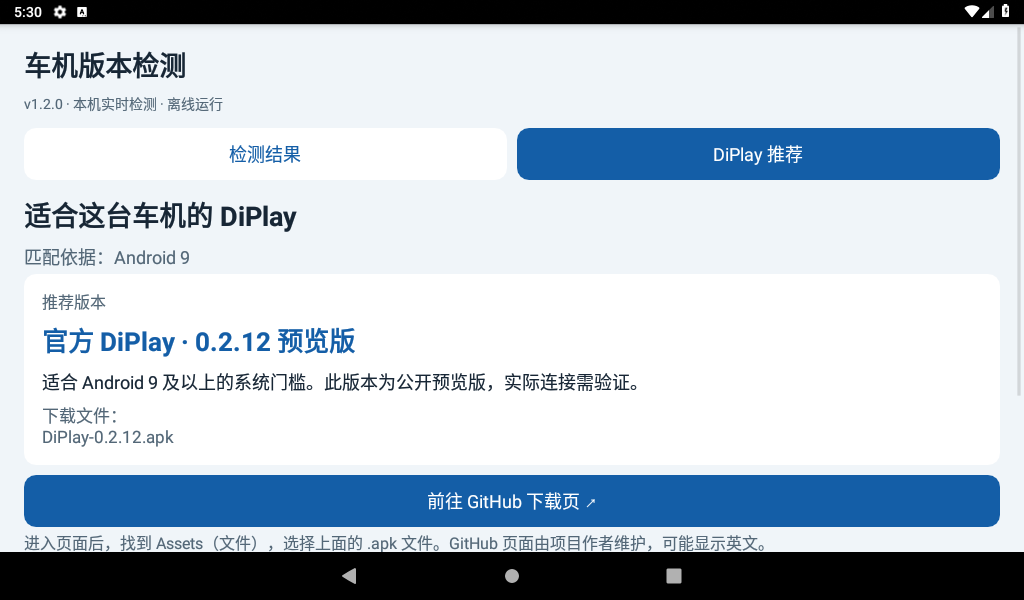
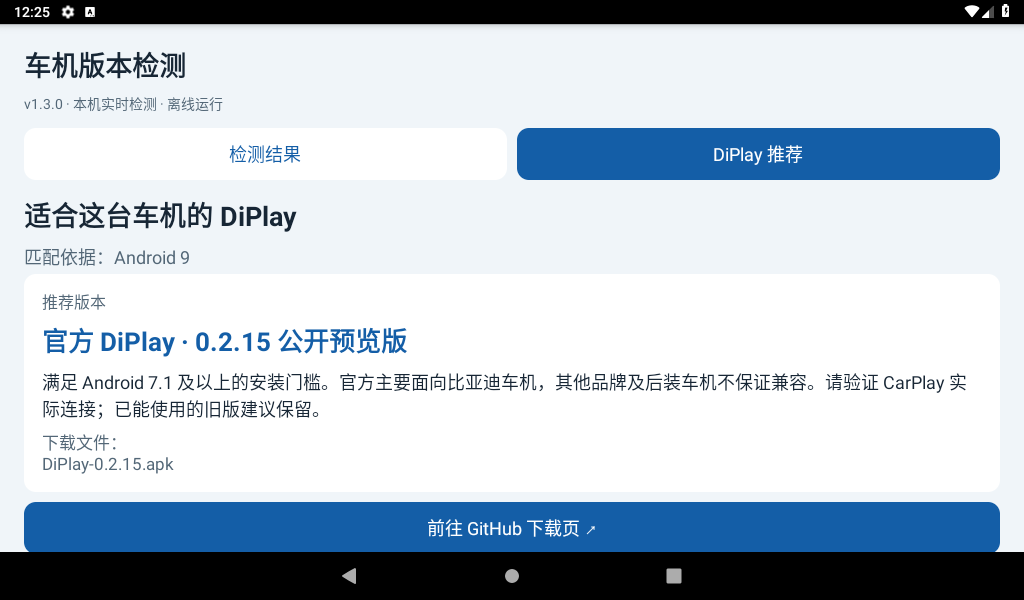
Document 1.3.0 with native screenshots and verified scenarios

diff --git a/docs/demo.html b/docs/demo.html
@@ -2,27 +2,27 @@
 <html lang="zh-CN">
 <head>
 <meta charset="utf-8"><meta name="viewport" content="width=device-width,initial-scale=1">
-<title>车机版本检测 1.2.0 · 界面演示</title>
+<title>车机版本检测 1.3.0 · 界面演示</title>
 <style>
 :root{font-family:system-ui,-apple-system,"PingFang SC","Microsoft YaHei",sans-serif;color:#172635;background:#e8eef4;font-synthesis:none}*{box-sizing:border-box}body{margin:0;padding:28px 20px 48px}button,a,select{font:inherit}button,a{touch-action:manipulation}button{cursor:pointer}button:focus-visible,a:focus-visible,select:focus-visible{outline:3px solid #e49d34;outline-offset:4px}[hidden]{display:none!important}.demo-bar{max-width:1024px;margin:0 auto 18px;display:flex;align-items:center;justify-content:space-between;gap:18px;flex-wrap:wrap}.demo-label{font-size:14px;font-weight:650;letter-spacing:.03em}.demo-label small{display:block;font-size:12px;font-weight:400;color:#536777;margin-top:5px}.scenario{display:flex;align-items:center;gap:10px;font-size:13px}.scenario select{max-width:100%;min-height:42px;border:1px solid #b9c7d5;background:white;border-radius:8px;padding:8px 30px 8px 10px;color:#172635}.app{max-width:1024px;margin:auto;background:#f0f5f9;border:1px solid #cbd8e3;border-radius:20px;overflow:hidden;box-shadow:0 16px 50px #253b5010}.app-header{padding:22px 28px 18px;display:flex;align-items:center;justify-content:space-between;gap:16px;border-bottom:1px solid #dce5ed}.brand{display:flex;gap:12px;align-items:center;font-size:23px;font-weight:700}.brand-mark{display:grid;place-items:center;background:#145ea7;color:white;width:38px;height:38px;border-radius:12px;font-size:20px}.local{font-size:12px;color:#536777}.inner{padding:20px 28px 28px}nav{display:grid;grid-template-columns:1fr 1fr;gap:10px;margin-bottom:25px}button{border:0;border-radius:10px;min-height:52px;background:white;color:#145ea7;padding:12px 16px;font-size:17px}nav button{font-size:16px}nav button[aria-current="page"],.primary{background:#145ea7;color:white}.section-label{font-size:12px;letter-spacing:.08em;color:#536777;margin:0 0 8px}h1{font-size:27px;line-height:1.35;margin:0 0 20px;letter-spacing:-.025em}h2{font-size:27px;line-height:1.4;margin:6px 0 12px;overflow-wrap:anywhere}.versions{display:grid;grid-template-columns:1fr 1fr;gap:12px}.version-card{border-radius:12px;background:white;padding:22px 24px}.version-card.inferred{background:#deecfa}.label{font-size:16px;color:#536777}.inferred .label,.inferred .version{color:#145ea7}.version{font-size:36px;line-height:1.3;font-weight:700;letter-spacing:-.04em;margin:12px 0}.caption{font-size:14px;color:#536777;line-height:1.7}.status{font-size:17px;color:#146e4c;margin:18px 0 7px;line-height:1.6}.status.warn{color:#995611}.limitation{font-size:13px;line-height:1.7;color:#536777;margin:0 0 18px}.device{font-size:13px;color:#536777;margin:0 0 16px}.actions{display:grid;grid-template-columns:1fr 1fr;gap:10px}.actions .primary{grid-column:1/-1}.actions .full{grid-column:1/-1}.recommend-context{color:#536777;font-size:17px;margin:-8px 0 18px}.recommend-card{border-radius:12px;padding:22px 24px;background:white;margin-bottom:14px}.recommend-card h2{color:#145ea7}.reason{font-size:17px;line-height:1.8;margin:0 0 16px}.file{font-size:15px;line-height:1.8;overflow-wrap:anywhere;margin:0;color:#536777}.file strong{color:#172635;font-weight:550}.download{display:flex;align-items:center;justify-content:center;min-height:54px;padding:13px 18px;border-radius:10px;text-decoration:none;font-size:18px}.download:hover,.primary:hover{background:#104f8d}.helper{font-size:14px;line-height:1.8;color:#536777;margin:12px 0 16px}.secondary-actions{display:grid;grid-template-columns:1fr 1fr;gap:10px}.footnote{font-size:13px;line-height:1.8;color:#536777;margin:18px 0 0}.footnote small{display:block;font-size:12px;margin-top:4px}.notice{margin:12px 0 0;color:#145ea7;overflow-wrap:anywhere;font-size:14px;line-height:1.7}.demo-note{max-width:1024px;margin:14px auto 0;color:#536777;font-size:12px;line-height:1.7}dialog{max-width:min(600px,calc(100% - 32px));border:0;border-radius:16px;padding:25px;background:white;color:#172635}dialog::backdrop{background:#13233477}dialog pre{white-space:pre-wrap;overflow-wrap:anywhere;font:14px/1.8 system-ui;margin:0 0 18px}dialog button{background:#deecfa;width:100%}p{overflow-wrap:anywhere}@media(max-width:600px){body{padding:16px 10px 28px}.demo-bar{gap:12px}.scenario{width:100%;flex-wrap:wrap}.scenario select{flex:1;min-width:0}.app{border-radius:14px}.app-header{padding:18px 16px}.brand{font-size:19px}.local{display:none}.inner{padding:16px}.versions{grid-template-columns:1fr}.version-card{padding:18px}.version{font-size:32px;margin:8px 0}h1{font-size:24px}.actions,.secondary-actions{grid-template-columns:1fr}.recommend-card{padding:18px}h2{font-size:23px}nav{margin-bottom:20px}nav button{padding:10px 8px}.caption{font-size:13px}}
 </style>
 </head>
 <body>
-<div class="demo-bar"><div class="demo-label">车机版本检测 1.2.0 · 界面演示<small>模拟数据，可切换场景；不会读取当前设备。</small></div><label class="scenario" for="scenario">演示场景<select id="scenario"></select></label></div>
-<main class="app"><header class="app-header"><div class="brand"><span class="brand-mark" aria-hidden="true">检</span>车机版本检测</div><span class="local">v1.2.0 · 离线检测 · 无需 Root</span></header><div class="inner">
+<div class="demo-bar"><div class="demo-label">车机版本检测 1.3.0 · 界面演示<small>模拟数据，可切换场景；不会读取当前设备。</small></div><label class="scenario" for="scenario">演示场景<select id="scenario"></select></label></div>
+<main class="app"><header class="app-header"><div class="brand"><span class="brand-mark" aria-hidden="true">检</span>车机版本检测</div><span class="local">v1.3.0 · 离线检测 · 无需 Root</span></header><div class="inner">
 <nav aria-label="页面导航"><button id="result-tab" type="button" aria-current="page">检测结果</button><button id="recommend-tab" type="button">DiPlay 推荐</button></nav>
 <section id="result-page" aria-labelledby="result-heading"><p class="section-label">01 / 检测结果</p><h1 id="result-heading">看看车机的实际版本</h1><div class="versions"><div class="version-card"><div class="label">标称版本</div><div class="version" id="declared"></div><div class="caption">车机系统显示的版本</div></div><div class="version-card inferred"><div class="label">真实版本（检测推定）</div><div class="version" id="inferred"></div><div class="caption" id="api-caption"></div></div></div><p class="status" id="status" role="status"></p><p class="limitation">推定结果不是绝对证明；部分改装固件可能修改系统信息。</p><p class="device" id="device"></p><div class="actions"><button type="button" class="primary" id="next">查看适配的 DiPlay →</button><button type="button" id="details">查看检测依据</button><button type="button" id="rescan">重新检测（演示）</button></div></section>
-<section id="recommend-page" aria-labelledby="recommend-heading" hidden><p class="section-label">02 / 版本推荐</p><h1 id="recommend-heading">适合这台车机的 DiPlay</h1><p class="recommend-context" id="context"></p><div class="recommend-card"><div class="label" id="recommend-label"></div><h2 id="recommend-title"></h2><p class="reason" id="reason"></p><p class="file" id="filename"></p></div><a class="download primary" id="download" target="_blank" rel="noopener noreferrer">前往 GitHub 下载页 ↗</a><button type="button" class="primary" id="blocked-details" hidden>查看无法推荐的原因</button><p class="helper" id="download-help">进入页面后，找到 Assets（文件），选择上面的 .apk 文件。GitHub 页面由项目作者维护，可能显示英文。</p><div class="secondary-actions"><button type="button" id="copy">复制下载页链接</button><button type="button" id="back">← 返回检测结果</button></div><p class="notice" id="notice" role="status"></p><p class="footnote">已能正常使用的 DiPlay 建议保留。满足系统门槛，仍需验证实际连接。<small>安装包目录：2026-10-05 · 固定版本推荐，不代表最新版本</small></p></section>
+<section id="recommend-page" aria-labelledby="recommend-heading" hidden><p class="section-label">02 / 版本推荐</p><h1 id="recommend-heading">适合这台车机的 DiPlay</h1><p class="recommend-context" id="context"></p><div class="recommend-card"><div class="label" id="recommend-label"></div><h2 id="recommend-title"></h2><p class="reason" id="reason"></p><p class="file" id="filename"></p></div><a class="download primary" id="download" target="_blank" rel="noopener noreferrer">前往 GitHub 下载页 ↗</a><button type="button" class="primary" id="blocked-details" hidden>查看无法推荐的原因</button><p class="helper" id="download-help">进入页面后，找到 Assets（文件），选择上面的 .apk 文件。GitHub 页面由项目作者维护，可能显示英文。</p><div id="alternative-card" class="recommend-card" hidden><div class="label">旧版备选 · 已能使用建议保留</div><h2 id="alternative-title"></h2><p class="reason" id="alternative-reason"></p><p class="file" id="alternative-filename"></p><a id="alternative-download" class="download" target="_blank" rel="noopener noreferrer">打开旧版下载页 ↗</a></div><div class="secondary-actions"><button type="button" id="copy">复制下载页链接</button><button type="button" id="back">← 返回检测结果</button></div><p class="notice" id="notice" role="status"></p><p class="footnote">已能正常使用的 DiPlay 建议保留。满足系统门槛，仍需验证实际连接。<small>安装包目录：2026-10-09 · 随应用更新，不自动查询最新版本</small></p></section>
 </div></main>
 <p class="demo-note">本页仅演示操作流程，显示的版本不是你的车机实测结果。推荐内容由 APK 的同一套规则生成；下载按钮会打开真实的 GitHub 发布页。</p>
 <dialog id="evidence"><h2>检测依据 · 模拟数据</h2><pre id="evidence-text"></pre><button id="close-evidence" type="button">关闭</button></dialog>
 <script>
-const fixtures=[{"label":"标称 9.1 · 推定 8.1","release":"9.1","api":27,"conflict":false,"abiSupported":true,"mismatch":true,"inferred":"Android 8.1","title":"KrunkZhou · Android 8 兼容版","reason":"适合 Android 8.0 / 8.1 的系统门槛。社区兼容版，安装后请验证本机的 CarPlay 连接。","apk":"DiPlay-Android8-complete-debug.apk","source":"https://github.com/KrunkZhou/DiPlay-Android8.0/releases/tag/v0.2.6"},{"label":"Android 9 · 信息一致","release":"9","api":28,"conflict":false,"abiSupported":true,"mismatch":false,"inferred":"Android 9","title":"官方 DiPlay · 0.2.12 预览版","reason":"适合 Android 9 及以上的系统门槛。此版本为公开预览版，实际连接需验证。","apk":"DiPlay-0.2.12.apk","source":"https://github.com/shihabal3amri/DiPlay/releases/tag/v0.2.12"},{"label":"Android 6 · 老车机","release":"6.0","api":23,"conflict":false,"abiSupported":true,"mismatch":false,"inferred":"Android 6.0","title":"Legacy Android · 4.4 兼容版","reason":"适合 Android 4.4 至 7.1 的系统门槛。社区试用包，实际连接仍需验证。","apk":"DiPlay-Legacy-Android-v0.2.7.apk","source":"https://github.com/programmerguohuajing/DiPlay-Legacy-Android/releases/tag/v0.2.7"},{"label":"接口冲突 · 无法确定","release":"9.1","api":28,"conflict":true,"abiSupported":true,"mismatch":true,"inferred":"无法确定","title":"暂无法可靠推荐","reason":"系统 API 与接口证据冲突，请查看检测依据。","apk":"","source":""},{"label":"Android 4.0 · 无适配包","release":"4.0","api":14,"conflict":false,"abiSupported":true,"mismatch":false,"inferred":"Android 4.0","title":"没有已核验的适配包","reason":"当前目录最低要求 API 19（Android 4.4）。","apk":"","source":""},{"label":"架构未知 · 暂停推荐","release":"8.1","api":27,"conflict":false,"abiSupported":false,"mismatch":false,"inferred":"Android 8.1","title":"暂无法可靠推荐","reason":"未确认 CPU 架构与目录中的安装包匹配。","apk":"","source":""},{"label":"未知 API · 无法确定","release":"99","api":99,"conflict":false,"abiSupported":true,"mismatch":false,"inferred":"无法确定","title":"暂无法可靠推荐","reason":"系统 API 尚未收录，无法推定版本。","apk":"","source":""}]
+const fixtures=[{"label":"标称 9.1 · 推定 8.1","release":"9.1","api":27,"conflict":false,"abiSupported":true,"mismatch":true,"inferred":"Android 8.1","title":"官方 DiPlay · 0.2.15 公开预览版","reason":"Android 7.1–8.1 已纳入支持，但作者尚未完成车机验证。官方主要面向比亚迪车机，其他品牌及后装车机不保证兼容。请验证 CarPlay 实际连接；已能使用的旧版建议保留。","apk":"DiPlay-0.2.15.apk","source":"https://github.com/shihabal3amri/DiPlay/releases/tag/v0.2.15","alternative":{"title":"KrunkZhou · Android 8 兼容版","reason":"社区版本 v0.2.6，最低 Android 8.0。本次用户已确认在自己的后装车机可用；其他车机仍需验证。","apk":"DiPlay-Android8-complete-debug.apk","source":"https://github.com/KrunkZhou/DiPlay-Android8.0/releases/tag/v0.2.6"}},{"label":"Android 9 · 信息一致","release":"9","api":28,"conflict":false,"abiSupported":true,"mismatch":false,"inferred":"Android 9","title":"官方 DiPlay · 0.2.15 公开预览版","reason":"满足 Android 7.1 及以上的安装门槛。官方主要面向比亚迪车机，其他品牌及后装车机不保证兼容。请验证 CarPlay 实际连接；已能使用的旧版建议保留。","apk":"DiPlay-0.2.15.apk","source":"https://github.com/shihabal3amri/DiPlay/releases/tag/v0.2.15","alternative":{"title":"官方 DiPlay · 0.2.12 旧版预览包","reason":"旧版最低要求 Android 9。仅作为回退选项；不保证能解决连接问题。","apk":"DiPlay-0.2.12.apk","source":"https://github.com/shihabal3amri/DiPlay/releases/tag/v0.2.12"}},{"label":"Android 6 · 老车机","release":"6.0","api":23,"conflict":false,"abiSupported":true,"mismatch":false,"inferred":"Android 6.0","title":"Legacy Android · 4.4 兼容版","reason":"适合 Android 4.4 至 7.0 的系统门槛。社区试用包，实际连接仍需验证。","apk":"DiPlay-Legacy-Android-v0.2.7.apk","source":"https://github.com/programmerguohuajing/DiPlay-Legacy-Android/releases/tag/v0.2.7","alternative":{"title":"","reason":"","apk":"","source":""}},{"label":"接口冲突 · 无法确定","release":"9.1","api":28,"conflict":true,"abiSupported":true,"mismatch":true,"inferred":"无法确定","title":"暂无法可靠推荐","reason":"系统 API 与接口证据冲突，请查看检测依据。","apk":"","source":"","alternative":{"title":"","reason":"","apk":"","source":""}},{"label":"Android 4.0 · 无适配包","release":"4.0","api":14,"conflict":false,"abiSupported":true,"mismatch":false,"inferred":"Android 4.0","title":"没有已核验的适配包","reason":"当前目录最低要求 API 19（Android 4.4）。","apk":"","source":"","alternative":{"title":"","reason":"","apk":"","source":""}},{"label":"架构未知 · 暂停推荐","release":"8.1","api":27,"conflict":false,"abiSupported":false,"mismatch":false,"inferred":"Android 8.1","title":"暂无法可靠推荐","reason":"未确认 CPU 架构与目录中的安装包匹配。","apk":"","source":"","alternative":{"title":"","reason":"","apk":"","source":""}},{"label":"未知 API · 无法确定","release":"99","api":99,"conflict":false,"abiSupported":true,"mismatch":false,"inferred":"无法确定","title":"暂无法可靠推荐","reason":"系统 API 尚未收录，无法推定版本。","apk":"","source":"","alternative":{"title":"","reason":"","apk":"","source":""}},{"label":"Android 7.0 · Legacy","release":"7.0","api":24,"conflict":false,"abiSupported":true,"mismatch":false,"inferred":"Android 7.0","title":"Legacy Android · 4.4 兼容版","reason":"适合 Android 4.4 至 7.0 的系统门槛。社区试用包，实际连接仍需验证。","apk":"DiPlay-Legacy-Android-v0.2.7.apk","source":"https://github.com/programmerguohuajing/DiPlay-Legacy-Android/releases/tag/v0.2.7","alternative":{"title":"","reason":"","apk":"","source":""}},{"label":"Android 7.1 · 新门槛","release":"7.1","api":25,"conflict":false,"abiSupported":true,"mismatch":false,"inferred":"Android 7.1","title":"官方 DiPlay · 0.2.15 公开预览版","reason":"Android 7.1–8.1 已纳入支持，但作者尚未完成车机验证。官方主要面向比亚迪车机，其他品牌及后装车机不保证兼容。请验证 CarPlay 实际连接；已能使用的旧版建议保留。","apk":"DiPlay-0.2.15.apk","source":"https://github.com/shihabal3amri/DiPlay/releases/tag/v0.2.15","alternative":{"title":"Legacy Android · 4.4 兼容版","reason":"社区版本 v0.2.7，最低 Android 4.4。作为 Android 7.1 的旧版备选，实际连接需验证。","apk":"DiPlay-Legacy-Android-v0.2.7.apk","source":"https://github.com/programmerguohuajing/DiPlay-Legacy-Android/releases/tag/v0.2.7"}},{"label":"Android 8.0 · 新官方与旧版","release":"8.0","api":26,"conflict":false,"abiSupported":true,"mismatch":false,"inferred":"Android 8.0","title":"官方 DiPlay · 0.2.15 公开预览版","reason":"Android 7.1–8.1 已纳入支持，但作者尚未完成车机验证。官方主要面向比亚迪车机，其他品牌及后装车机不保证兼容。请验证 CarPlay 实际连接；已能使用的旧版建议保留。","apk":"DiPlay-0.2.15.apk","source":"https://github.com/shihabal3amri/DiPlay/releases/tag/v0.2.15","alternative":{"title":"KrunkZhou · Android 8 兼容版","reason":"社区版本 v0.2.6，最低 Android 8.0。本次用户已确认在自己的后装车机可用；其他车机仍需验证。","apk":"DiPlay-Android8-complete-debug.apk","source":"https://github.com/KrunkZhou/DiPlay-Android8.0/releases/tag/v0.2.6"}},{"label":"Android 4.4 · 最低适配","release":"4.4","api":19,"conflict":false,"abiSupported":true,"mismatch":false,"inferred":"Android 4.4","title":"Legacy Android · 4.4 兼容版","reason":"适合 Android 4.4 至 7.0 的系统门槛。社区试用包，实际连接仍需验证。","apk":"DiPlay-Legacy-Android-v0.2.7.apk","source":"https://github.com/programmerguohuajing/DiPlay-Legacy-Android/releases/tag/v0.2.7","alternative":{"title":"","reason":"","apk":"","source":""}}]
 ;
 const $=id=>document.getElementById(id);let current=fixtures[0];let active='result';
 fixtures.forEach((f,i)=>{const o=document.createElement('option');o.value=i;o.textContent=f.label;$('scenario').appendChild(o)});
 function page(name){active=name;const isResult=name==='result';$('result-page').hidden=!isResult;$('recommend-page').hidden=isResult;['result','recommend'].forEach(n=>{const el=$(n+'-tab');if(n===name)el.setAttribute('aria-current','page');else el.removeAttribute('aria-current')});$('notice').textContent='';}
-function render(){const f=current;$('declared').textContent='Android '+f.release;$('inferred').textContent=f.inferred;$('api-caption').textContent='系统 API '+f.api+' · 结合接口证据判断';$('status').textContent=f.conflict?'证据冲突，暂时无法确定真实版本。':f.inferred==='无法确定'?'系统 API 尚未收录，暂时无法确定真实版本。':f.mismatch?'两个版本不一致，请按检测推定版本选择应用。':'版本信息与已检查的接口一致。';$('status').classList.toggle('warn',f.conflict||f.mismatch||f.inferred==='无法确定');$('device').textContent='模拟设备 · CPU：'+(f.abiSupported?'armeabi-v7a':'未知架构');$('context').textContent='匹配依据：'+f.inferred;$('recommend-label').textContent=f.source?'推荐版本':'暂不提供下载推荐';$('recommend-title').textContent=f.title;$('reason').textContent=f.reason;$('filename').textContent=f.apk?'下载文件：'+f.apk:'';$('filename').hidden=!f.apk;const link=$('download');link.hidden=!f.source;if(f.source)link.href=f.source;else link.removeAttribute('href');$('download-help').hidden=!f.source;$('copy').hidden=!f.source;$('blocked-details').hidden=!!f.source;page('result');}
+function render(){const f=current;$('declared').textContent='Android '+f.release;$('inferred').textContent=f.inferred;$('api-caption').textContent='系统 API '+f.api+' · 结合接口证据判断';$('status').textContent=f.conflict?'证据冲突，暂时无法确定真实版本。':f.inferred==='无法确定'?'系统 API 尚未收录，暂时无法确定真实版本。':f.mismatch?'两个版本不一致，请按检测推定版本选择应用。':'版本信息与已检查的接口一致。';$('status').classList.toggle('warn',f.conflict||f.mismatch||f.inferred==='无法确定');$('device').textContent='模拟设备 · CPU：'+(f.abiSupported?'armeabi-v7a':'未知架构');$('context').textContent='匹配依据：'+f.inferred;$('recommend-label').textContent=f.source?'推荐版本':'暂不提供下载推荐';$('recommend-title').textContent=f.title;$('reason').textContent=f.reason;$('filename').textContent=f.apk?'下载文件：'+f.apk:'';$('filename').hidden=!f.apk;const link=$('download');link.hidden=!f.source;if(f.source)link.href=f.source;else link.removeAttribute('href');$('download-help').hidden=!f.source;$('copy').hidden=!f.source;$('blocked-details').hidden=!!f.source;const alt=f.alternative;$('alternative-card').hidden=!alt.source;$('alternative-title').textContent=alt.title;$('alternative-reason').textContent=alt.reason;$('alternative-filename').textContent=alt.apk?'下载文件：'+alt.apk:'';const old=$('alternative-download');if(alt.source)old.href=alt.source;else old.removeAttribute('href');page('result');}
 function details(){const f=current;$('evidence-text').textContent='这是演示数据，不是实际设备检测。\n\n标称版本：Android '+f.release+'\n系统 API：'+f.api+'\n真实版本（检测推定）：'+f.inferred+'\n接口证据：'+(f.conflict?'存在冲突':'此场景未发现冲突')+'\nCPU 架构：'+(f.abiSupported?'已匹配':'未匹配')+'\n\n推荐：'+f.title+'\n'+f.reason+(f.source?'\n\n来源：'+f.source:'');$('evidence').showModal();}
 $('scenario').onchange=e=>{current=fixtures[Number(e.target.value)];render()};$('result-tab').onclick=()=>page('result');$('recommend-tab').onclick=()=>page('recommend');$('next').onclick=()=>page('recommend');$('back').onclick=()=>page('result');$('details').onclick=details;$('blocked-details').onclick=details;$('close-evidence').onclick=()=>$('evidence').close();$('rescan').onclick=()=>{render();$('status').textContent+=' 模拟检测完成。'};$('copy').onclick=async()=>{if(!current.source)return;try{await navigator.clipboard.writeText(current.source);$('notice').textContent='下载页链接已复制。'}catch(e){$('notice').textContent='请复制此链接：'+current.source}};render();
 </script>
